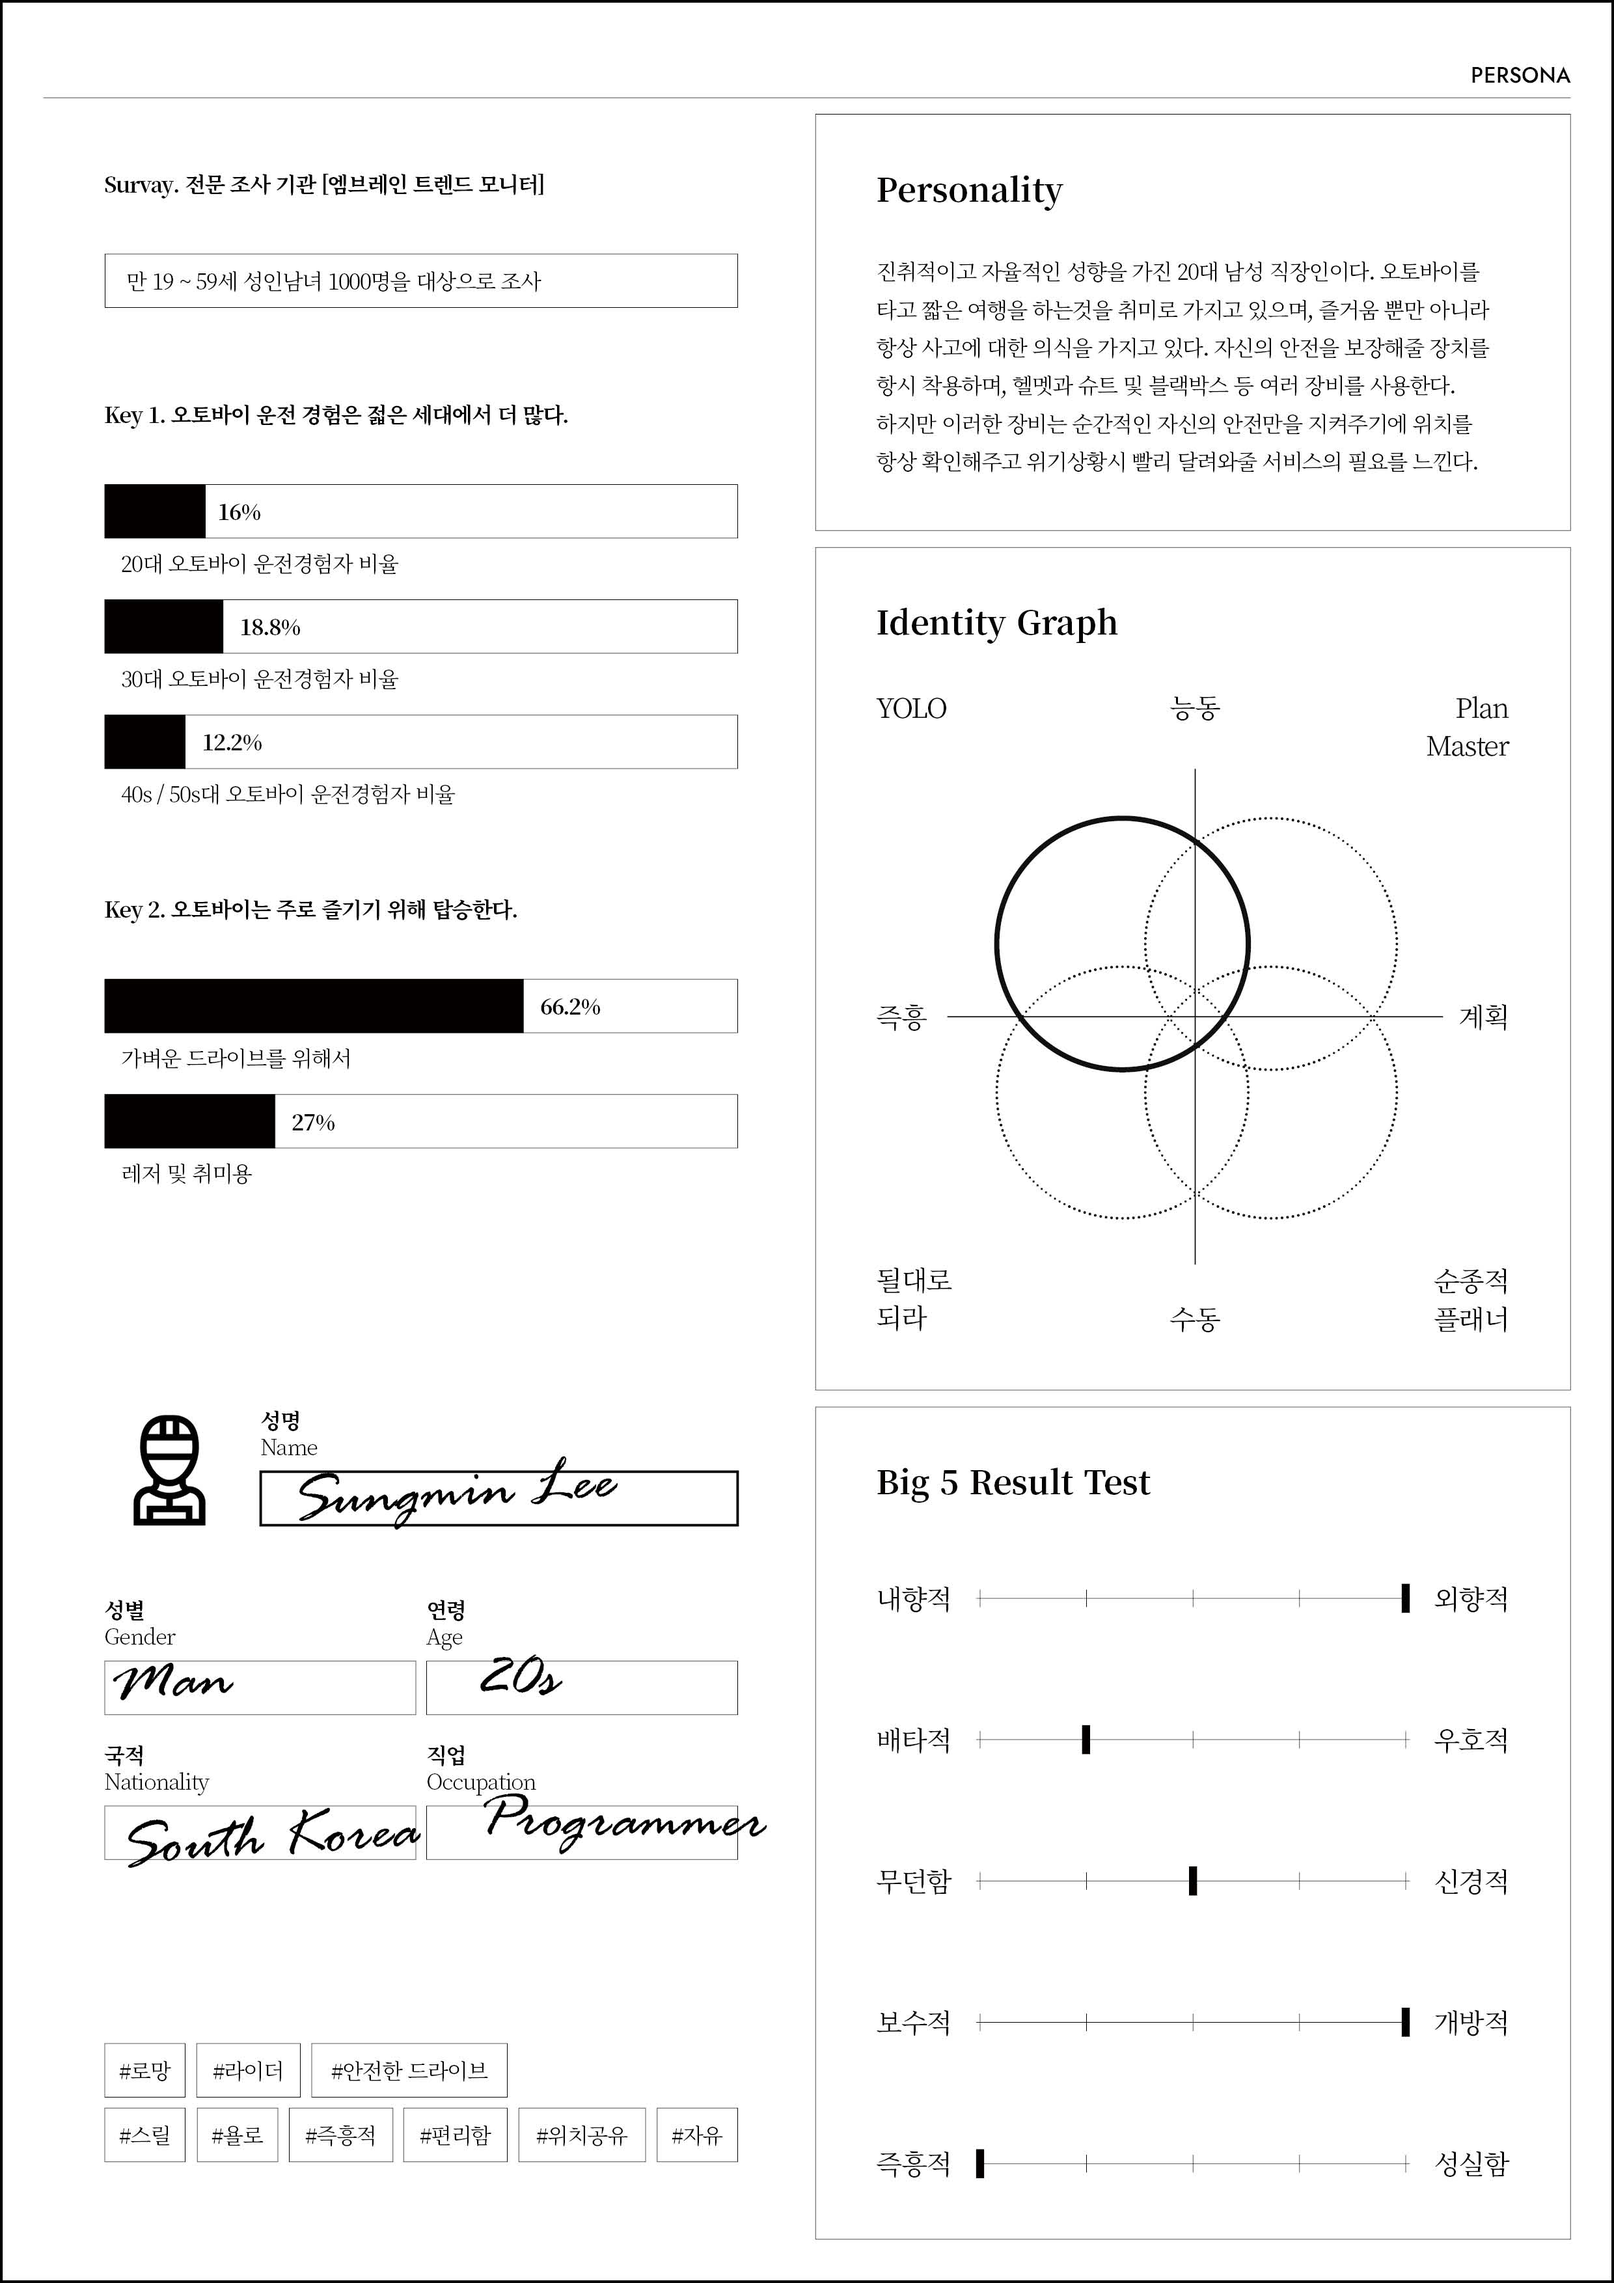
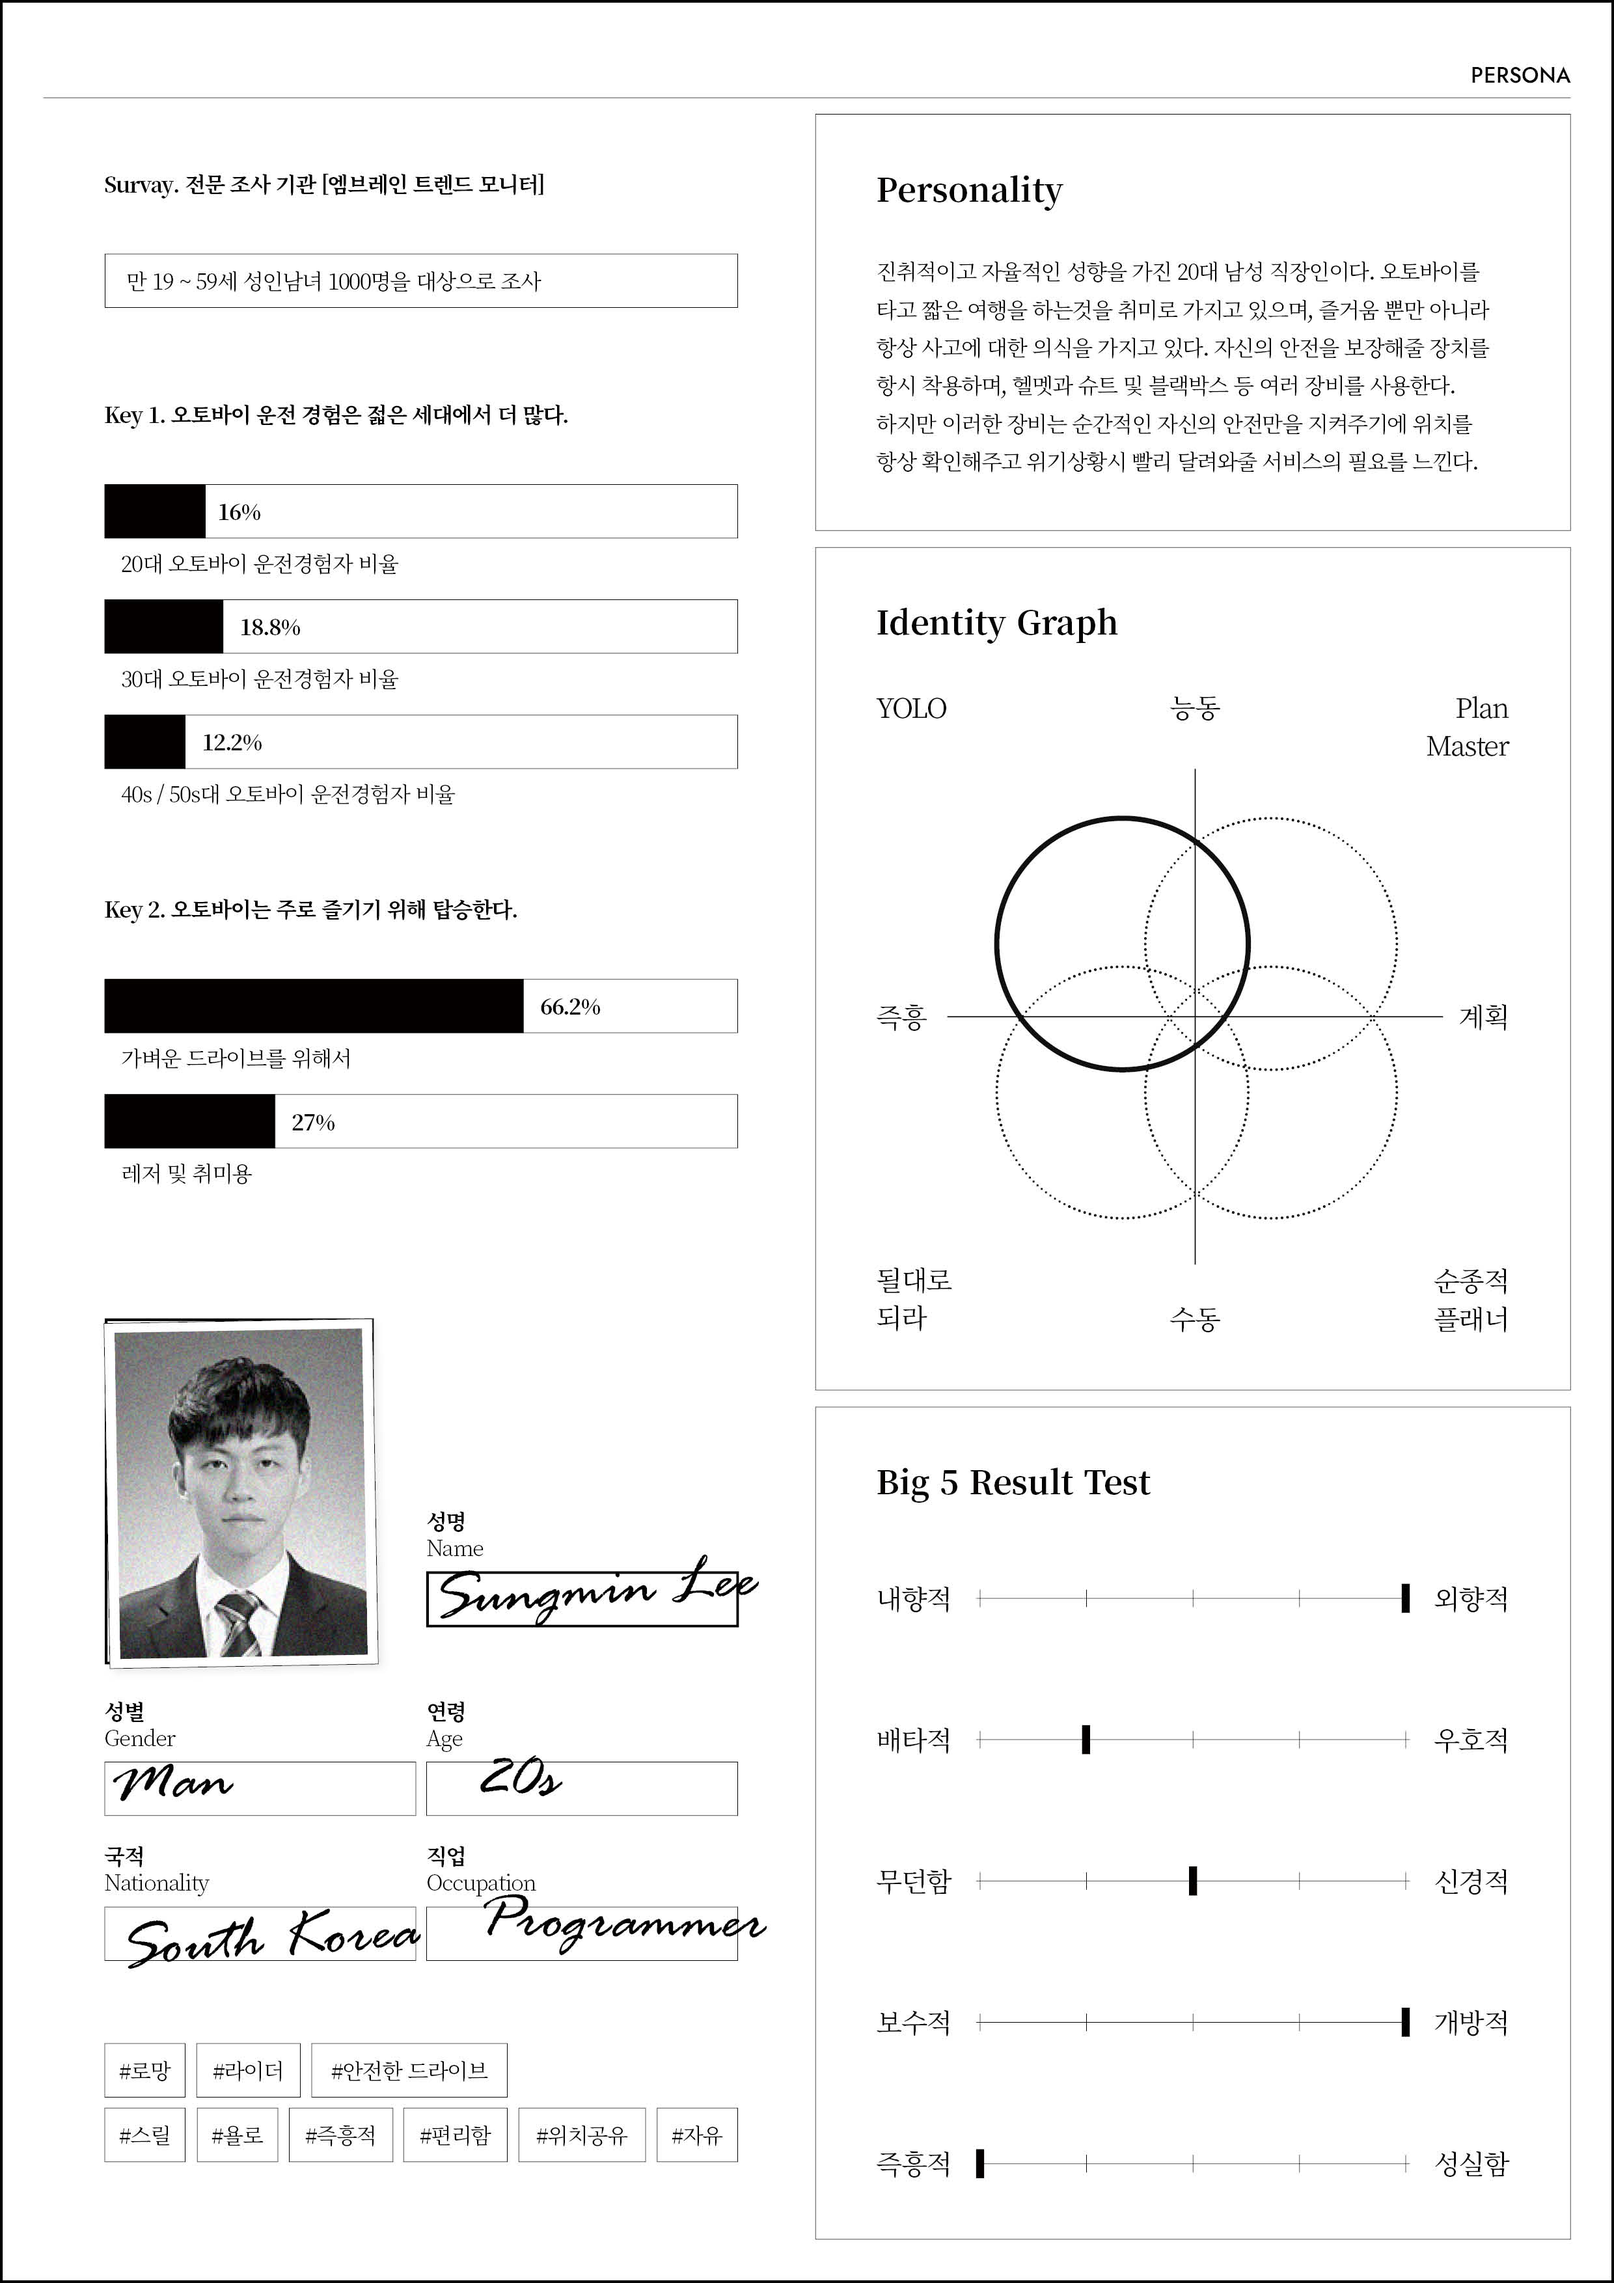
sketch add

Changed region(s): [[0.0621, 0.5593, 0.4657, 0.87]]

diff --git a/research-asap.html b/research-asap.html
@@ -21,6 +21,7 @@
         background-color: black;
         margin-bottom: 0;
     }
+
     .explainbox {
         height: 140vh;
         width: 99vw;
@@ -47,7 +48,7 @@
 
     </div>
 
-    <div class="boximg" style="background-color: black; overflow: hidden;"><img style= "margin-left: 12vw; margin-top: 40vh; width: 30vw;" src="images/Index/research/asap/asap2.jpg"></div>
+    <div class="boximg" style="background-color: black; overflow: hidden;"><img style="margin-left: 12vw; margin-top: 40vh; width: 30vw;" src="images/Index/research/asap/asap2.jpg"></div>
 
     <p class="scrolltxt">SCROLL</p>
     <div class="scroll"></div>
@@ -80,6 +81,10 @@
         <div class="explainbox">
             <img class="explainimg" style="margin-right: 40px; margin-top: 100vh;" src="images/Index/research/asap/asap5.jpg">
             <img class="explainimg" style="margin-left: 40px; margin-top: 100vh;" src="images/Index/research/asap/asap6.jpg">
+        </div>
+
+        <div class="explainbox">
+            <img class="explainimg" style="width: 80vw; margin-top: 100vh;" src="images/Index/research/asap/apapsketch.jpg">
         </div>
 
         <div class="explainbox" style="height:300vh;">
